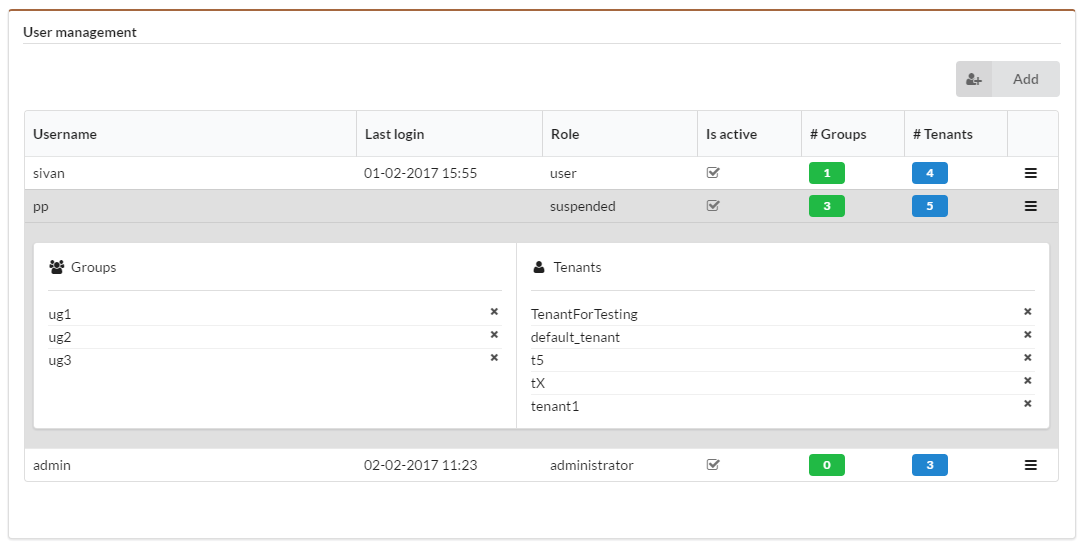
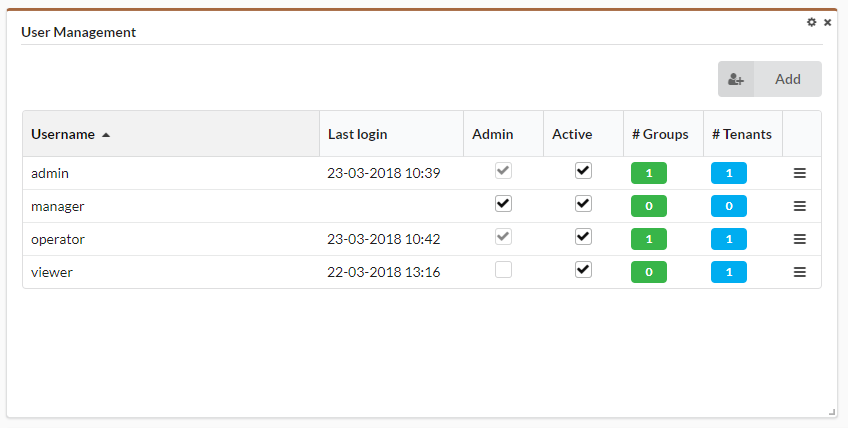
Updated column names (Is admin -> Admin, Is active -> Active) Updated popup message, warning message and confirmation modal messages Updated thumbnails of User Management and User Groups Management widgets

diff --git a/widgets/userManagement/src/UsersTable.js b/widgets/userManagement/src/UsersTable.js
@@ -200,8 +200,8 @@ export default class UsersTable extends React.Component {
 
                     <DataTable.Column label="Username" name="username" width="37%" />
                     <DataTable.Column label="Last login" name="last_login_at" width="18%" />
-                    <DataTable.Column label="Is admin" width="10%" />
-                    <DataTable.Column label="Is active" name="active" width="10%" />
+                    <DataTable.Column label="Admin" width="10%" />
+                    <DataTable.Column label="Active" name="active" width="10%" />
                     <DataTable.Column label="# Groups" width="10%" />
                     <DataTable.Column label="# Tenants" width="10%" />
                     <DataTable.Column label="" width="5%" />
@@ -231,8 +231,8 @@ export default class UsersTable extends React.Component {
                                                     ? <Popup>
                                                         <Popup.Trigger>{isAdminCheckbox(item, true)}</Popup.Trigger>
                                                         <Popup.Content>
-                                                            User is admin by group association. To remove
-                                                            admin right, remove the user from the group.
+                                                            To remove the administrator privileges for this user,
+                                                            remove the user from the group that is assigned administrator privileges.
                                                         </Popup.Content>
                                                     </Popup>
                                                     : isAdminCheckbox(item, false)
@@ -294,7 +294,8 @@ export default class UsersTable extends React.Component {
                          onConfirm={this._deleteUser.bind(this)}
                          onCancel={this._hideModal.bind(this)} />
 
-                <Confirm content='Are you sure you want to disable administrative rights for current user and log out?'
+                <Confirm content={'Are you sure you want to remove your administrator privileges? ' +
+                                  'You will be logged out of the system so the changes take effect.'}
                          open={this.state.modalType === MenuAction.SET_DEFAULT_USER_ROLE_ACTION && this.state.showModal}
                          onConfirm={this._setRole.bind(this, this.state.user, false)}
                          onCancel={this._hideModal.bind(this)} />

diff --git a/widgets/userGroups/src/UserGroupsTable.js b/widgets/userGroups/src/UserGroupsTable.js
@@ -162,7 +162,7 @@ export default class UserGroupsTable extends React.Component {
 
                     <DataTable.Column label="Group" name="name" width="35%" />
                     <DataTable.Column label="LDAP group" name="ldap_dn" width="20%" />
-                    <DataTable.Column label="Is admin" name="role" width="10%" />
+                    <DataTable.Column label="Admin" name="role" width="10%" />
                     <DataTable.Column label="# Users" width="10%" />
                     <DataTable.Column label="# Tenants" width="10%" />
                     <DataTable.Column label="" width="5%" />
@@ -220,16 +220,14 @@ export default class UserGroupsTable extends React.Component {
                     onHide={this._hideModal.bind(this)}
                     toolbox={this.props.toolbox}/>
 
-                <Confirm content={actions.isLogoutToBePerformed(this.state.group, this.props.data.items, this.state.group.users)
-                                  ? `Current user is member of ${this.state.group.name} group. ` +
-                                    `Are you sure you want to remove group ${this.state.group.name} and log out?`
-                                  : `Are you sure you want to remove group ${this.state.group.name}?` }
+                <Confirm content={`Are you sure you want to remove group ${this.state.group.name}?`}
                          open={this.state.modalType === MenuAction.DELETE_ACTION && this.state.showModal}
                          onConfirm={this._deleteUserGroup.bind(this)}
                          onCancel={this._hideModal.bind(this)} />
 
-                <Confirm content={`Current user is member of admin group '${this.state.group.name}'. ` +
-                                  'Are you sure you want to disable administrative rights for this group and log out?'}
+                <Confirm content={`You have administrator privileges from the '${this.state.group.name}' group. ` +
+                                  'Are you sure you want to remove administrator privileges from this group? ' +
+                                  'You will be logged out of the system so the changes take effect.'}
                          open={this.state.modalType === MenuAction.SET_DEFAULT_GROUP_ROLE_ACTION && this.state.showModal}
                          onConfirm={this._setRole.bind(this, this.state.group, false)}
                          onCancel={this._hideModal.bind(this)} />

diff --git a/widgets/userGroups/src/UsersModal.js b/widgets/userGroups/src/UsersModal.js
@@ -86,10 +86,10 @@ export default class UsersModal extends React.Component {
                         this.state.waitingForConfirmation &&
                         <Message warning onDismiss={() => this.setState({waitingForConfirmation: false})}>
                             <Message.Header>Confirmation request</Message.Header>
-                            You are about to remove current user from this group.
-                            This action will disable administrative rights for that user.
-                            If you are sure you want to make such change and log out
-                            then press <strong>Save</strong> button once again.
+                            You are about to remove yourself from this group.
+                            Your administrative privileges will be removed
+                            and you will be logged out of the system so the changes take effect.
+                            Are you sure you want to continue?
                         </Message>
                     }
                     <Form loading={this.state.loading} errors={this.state.errors}
@@ -102,8 +102,10 @@ export default class UsersModal extends React.Component {
                 </Modal.Content>
 
                 <Modal.Actions>
-                    <CancelButton onClick={this.onCancel.bind(this)} disabled={this.state.loading} />
-                    <ApproveButton onClick={this.onApprove.bind(this)} disabled={this.state.loading} icon="user" color="green"/>
+                    <CancelButton onClick={this.onCancel.bind(this)} disabled={this.state.loading}
+                                  content={this.state.waitingForConfirmation ? 'No' : undefined} />
+                    <ApproveButton onClick={this.onApprove.bind(this)} disabled={this.state.loading} icon="user" color="green"
+                                   content={this.state.waitingForConfirmation ? 'Yes' : undefined} />
                 </Modal.Actions>
             </Modal>
         );

diff --git a/widgets/userGroups/src/GroupDetails.js b/widgets/userGroups/src/GroupDetails.js
@@ -121,9 +121,9 @@ export default class UserDetails extends React.Component {
                     </List>
                 </Segment>
 
-                <Confirm content={`You are about to remove current user from group '${this.props.data.name}'. ` +
-                                  'This action will disable administrative rights for current user. ' +
-                                  'Are you sure you want to make such change and log out?'}
+                <Confirm content={`You have administrator privileges from the '${this.props.data.name}' group.` +
+                                  'Are you sure you want to remove yourself from this group? ' +
+                                  'You will be logged out of the system so the changes take effect.'}
                          open={this.state.showModal}
                          onConfirm={this._removeUser.bind(this, this.state.user)}
                          onCancel={this._hideModal.bind(this)} />

diff --git a/widgets/userManagement/src/CreateModal.js b/widgets/userManagement/src/CreateModal.js
@@ -113,7 +113,7 @@ export default class CreateModal extends React.Component {
                         </Form.Field>
 
                         <Form.Field error={this.state.errors.isAdmin}>
-                            <Form.Checkbox label="Is admin" name="isAdmin" checked={this.state.isAdmin}
+                            <Form.Checkbox label="Admin" name="isAdmin" checked={this.state.isAdmin}
                                            onChange={this._handleInputChange.bind(this)} />
                         </Form.Field>
 

diff --git a/widgets/userGroups/src/CreateModal.js b/widgets/userGroups/src/CreateModal.js
@@ -92,7 +92,7 @@ export default class CreateModal extends React.Component {
                         </Form.Field>
 
                         <Form.Field error={this.state.errors.isAdmin}>
-                            <Form.Checkbox label="Is admin" name="isAdmin" checked={this.state.isAdmin}
+                            <Form.Checkbox label="Admin" name="isAdmin" checked={this.state.isAdmin}
                                            onChange={this._handleInputChange.bind(this)} />
                         </Form.Field>
 
